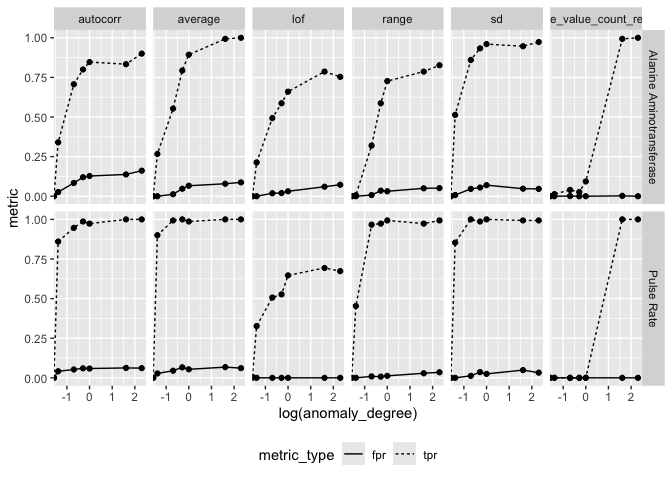
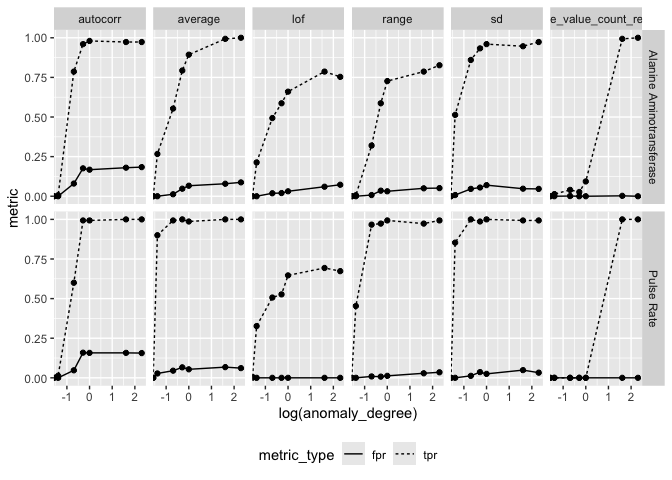
autocorr2

diff --git a/README.md b/README.md
@@ -69,7 +69,7 @@ ctas <- ctasval(
   fun_anomaly = c(
     anomaly_average,
     anomaly_sd,
-    anomaly_autocorr,
+    anomaly_autocorr2,
     anomaly_lof,
     anomaly_range,
     anomaly_unique_value_count_relative
@@ -1535,58 +1535,58 @@ ctas$anomaly %>%
   knitr::kable()
 ```
 
-| iter | anomaly_degree | feats    | parameter_id             | site         | subject_id               | timepoint_rank |      result | score |
-|-----:|---------------:|:---------|:-------------------------|:-------------|:-------------------------|---------------:|------------:|------:|
-|    1 |             10 | autocorr | Alanine Aminotransferase | sample_site1 | sample_site1-01-703-1335 |              1 |  173.990697 |     1 |
-|    1 |             10 | autocorr | Alanine Aminotransferase | sample_site1 | sample_site1-01-703-1335 |              4 |  179.241848 |     1 |
-|    1 |             10 | autocorr | Alanine Aminotransferase | sample_site1 | sample_site1-01-703-1335 |              5 |   50.489801 |     1 |
-|    1 |             10 | autocorr | Alanine Aminotransferase | sample_site1 | sample_site1-01-703-1335 |              7 | -119.697451 |     1 |
-|    1 |             10 | autocorr | Alanine Aminotransferase | sample_site1 | sample_site1-01-710-1235 |              1 | -154.205697 |     1 |
-|    1 |             10 | autocorr | Alanine Aminotransferase | sample_site1 | sample_site1-01-710-1235 |              4 |  -23.469424 |     1 |
-|    1 |             10 | autocorr | Alanine Aminotransferase | sample_site1 | sample_site1-01-710-1235 |              5 |  134.668204 |     1 |
-|    1 |             10 | autocorr | Alanine Aminotransferase | sample_site1 | sample_site1-01-710-1235 |              7 |  194.702833 |     1 |
-|    1 |             10 | autocorr | Alanine Aminotransferase | sample_site1 | sample_site1-01-710-1235 |              8 |   92.438901 |     1 |
-|    1 |             10 | autocorr | Alanine Aminotransferase | sample_site1 | sample_site1-01-710-1235 |              9 |  -81.263813 |     1 |
-|    1 |             10 | autocorr | Alanine Aminotransferase | sample_site1 | sample_site1-01-710-1235 |             10 | -166.623231 |     1 |
-|    1 |             10 | autocorr | Alanine Aminotransferase | sample_site1 | sample_site1-01-710-1235 |             11 |  -81.918483 |     1 |
-|    1 |             10 | autocorr | Alanine Aminotransferase | sample_site1 | sample_site1-01-710-1235 |             12 |   87.892671 |     1 |
-|    1 |             10 | autocorr | Alanine Aminotransferase | sample_site1 | sample_site1-01-710-1235 |             13 |  191.928454 |     1 |
-|    1 |             10 | autocorr | Alanine Aminotransferase | sample_site1 | sample_site1-01-715-1085 |              1 |  129.458241 |     1 |
-|    1 |             10 | autocorr | Alanine Aminotransferase | sample_site1 | sample_site1-01-715-1085 |              4 |  -37.002537 |     1 |
-|    1 |             10 | autocorr | Alanine Aminotransferase | sample_site1 | sample_site1-01-715-1085 |              5 | -159.652422 |     1 |
-|    1 |             10 | autocorr | Alanine Aminotransferase | sample_site1 | sample_site1-01-715-1085 |              7 | -119.647071 |     1 |
-|    1 |             10 | autocorr | Alanine Aminotransferase | sample_site1 | sample_site1-01-715-1085 |              8 |   43.071571 |     1 |
-|    1 |             10 | autocorr | Alanine Aminotransferase | sample_site1 | sample_site1-01-715-1085 |              9 |  179.900736 |     1 |
-|    1 |             10 | autocorr | Alanine Aminotransferase | sample_site1 | sample_site1-01-715-1085 |             10 |  168.120925 |     1 |
-|    1 |             10 | autocorr | Alanine Aminotransferase | sample_site1 | sample_site1-01-715-1085 |             11 |   14.401232 |     1 |
-|    1 |             10 | autocorr | Alanine Aminotransferase | sample_site1 | sample_site1-01-715-1085 |             12 | -133.848560 |     1 |
-|    1 |             10 | autocorr | Alanine Aminotransferase | sample_site1 | sample_site1-01-715-1085 |             13 | -148.570092 |     1 |
-|    1 |             10 | autocorr | Alanine Aminotransferase | sample_site1 | sample_site1-01-716-1189 |              1 |   -5.906035 |     1 |
-|    1 |             10 | autocorr | Alanine Aminotransferase | sample_site1 | sample_site1-01-716-1189 |              4 |  165.737120 |     1 |
-|    1 |             10 | autocorr | Alanine Aminotransferase | sample_site1 | sample_site1-01-716-1189 |              5 |  191.745402 |     1 |
-|    1 |             10 | autocorr | Alanine Aminotransferase | sample_site1 | sample_site1-01-716-1189 |              7 |   81.932358 |     1 |
-|    1 |             10 | autocorr | Alanine Aminotransferase | sample_site1 | sample_site1-01-716-1189 |              8 |  -91.868870 |     1 |
-|    1 |             10 | autocorr | Alanine Aminotransferase | sample_site1 | sample_site1-01-716-1189 |              9 | -160.463212 |     1 |
-|    1 |             10 | autocorr | Alanine Aminotransferase | sample_site1 | sample_site1-01-716-1189 |             10 |  -58.979300 |     1 |
-|    1 |             10 | autocorr | Alanine Aminotransferase | sample_site1 | sample_site1-01-716-1189 |             11 |  118.601444 |     1 |
-|    1 |             10 | autocorr | Alanine Aminotransferase | sample_site2 | sample_site2-01-701-1192 |              1 |  140.816445 |     1 |
-|    1 |             10 | autocorr | Alanine Aminotransferase | sample_site2 | sample_site2-01-701-1192 |              4 |  148.796621 |     1 |
-|    1 |             10 | autocorr | Alanine Aminotransferase | sample_site2 | sample_site2-01-701-1192 |              5 |   34.764801 |     1 |
-|    1 |             10 | autocorr | Alanine Aminotransferase | sample_site2 | sample_site2-01-701-1192 |              7 |  -99.358081 |     1 |
-|    1 |             10 | autocorr | Alanine Aminotransferase | sample_site2 | sample_site2-01-701-1192 |              8 | -122.098858 |     1 |
-|    1 |             10 | autocorr | Alanine Aminotransferase | sample_site2 | sample_site2-01-701-1192 |              9 |  -27.113995 |     1 |
-|    1 |             10 | autocorr | Alanine Aminotransferase | sample_site2 | sample_site2-01-701-1192 |             10 |  109.670885 |     1 |
-|    1 |             10 | autocorr | Alanine Aminotransferase | sample_site2 | sample_site2-01-701-1192 |             11 |  160.576999 |     1 |
-|    1 |             10 | autocorr | Alanine Aminotransferase | sample_site2 | sample_site2-01-701-1192 |             12 |   79.640291 |     1 |
-|    1 |             10 | autocorr | Alanine Aminotransferase | sample_site2 | sample_site2-01-701-1192 |             13 |  -64.048821 |     1 |
-|    1 |             10 | autocorr | Alanine Aminotransferase | sample_site2 | sample_site2-01-708-1171 |              1 | -134.141416 |     1 |
-|    1 |             10 | autocorr | Alanine Aminotransferase | sample_site2 | sample_site2-01-708-1171 |              4 |  -64.952872 |     1 |
-|    1 |             10 | autocorr | Alanine Aminotransferase | sample_site2 | sample_site2-01-708-1171 |              5 |   73.824578 |     1 |
-|    1 |             10 | autocorr | Alanine Aminotransferase | sample_site2 | sample_site2-01-708-1171 |              7 |  158.760797 |     1 |
-|    1 |             10 | autocorr | Alanine Aminotransferase | sample_site2 | sample_site2-01-708-1171 |              8 |  110.685211 |     1 |
-|    1 |             10 | autocorr | Alanine Aminotransferase | sample_site2 | sample_site2-01-708-1171 |              9 |  -30.362917 |     1 |
-|    1 |             10 | autocorr | Alanine Aminotransferase | sample_site2 | sample_site2-01-708-1171 |             10 | -124.462774 |     1 |
-|    1 |             10 | autocorr | Alanine Aminotransferase | sample_site2 | sample_site2-01-708-1171 |             11 |  -92.502409 |     1 |
+| iter | anomaly_degree | feats | parameter_id | site | subject_id | timepoint_rank | result | score |
+|---:|---:|:---|:---|:---|:---|---:|---:|---:|
+| 1 | 10 | autocorr | Alanine Aminotransferase | sample_site1 | sample_site1-01-703-1335 | 1 | 173.990697 | 1 |
+| 1 | 10 | autocorr | Alanine Aminotransferase | sample_site1 | sample_site1-01-703-1335 | 4 | 179.241848 | 1 |
+| 1 | 10 | autocorr | Alanine Aminotransferase | sample_site1 | sample_site1-01-703-1335 | 5 | 50.489801 | 1 |
+| 1 | 10 | autocorr | Alanine Aminotransferase | sample_site1 | sample_site1-01-703-1335 | 7 | -119.697451 | 1 |
+| 1 | 10 | autocorr | Alanine Aminotransferase | sample_site1 | sample_site1-01-710-1235 | 1 | -154.205697 | 1 |
+| 1 | 10 | autocorr | Alanine Aminotransferase | sample_site1 | sample_site1-01-710-1235 | 4 | -23.469424 | 1 |
+| 1 | 10 | autocorr | Alanine Aminotransferase | sample_site1 | sample_site1-01-710-1235 | 5 | 134.668204 | 1 |
+| 1 | 10 | autocorr | Alanine Aminotransferase | sample_site1 | sample_site1-01-710-1235 | 7 | 194.702833 | 1 |
+| 1 | 10 | autocorr | Alanine Aminotransferase | sample_site1 | sample_site1-01-710-1235 | 8 | 92.438901 | 1 |
+| 1 | 10 | autocorr | Alanine Aminotransferase | sample_site1 | sample_site1-01-710-1235 | 9 | -81.263813 | 1 |
+| 1 | 10 | autocorr | Alanine Aminotransferase | sample_site1 | sample_site1-01-710-1235 | 10 | -166.623231 | 1 |
+| 1 | 10 | autocorr | Alanine Aminotransferase | sample_site1 | sample_site1-01-710-1235 | 11 | -81.918483 | 1 |
+| 1 | 10 | autocorr | Alanine Aminotransferase | sample_site1 | sample_site1-01-710-1235 | 12 | 87.892671 | 1 |
+| 1 | 10 | autocorr | Alanine Aminotransferase | sample_site1 | sample_site1-01-710-1235 | 13 | 191.928454 | 1 |
+| 1 | 10 | autocorr | Alanine Aminotransferase | sample_site1 | sample_site1-01-715-1085 | 1 | 129.458241 | 1 |
+| 1 | 10 | autocorr | Alanine Aminotransferase | sample_site1 | sample_site1-01-715-1085 | 4 | -37.002537 | 1 |
+| 1 | 10 | autocorr | Alanine Aminotransferase | sample_site1 | sample_site1-01-715-1085 | 5 | -159.652422 | 1 |
+| 1 | 10 | autocorr | Alanine Aminotransferase | sample_site1 | sample_site1-01-715-1085 | 7 | -119.647071 | 1 |
+| 1 | 10 | autocorr | Alanine Aminotransferase | sample_site1 | sample_site1-01-715-1085 | 8 | 43.071571 | 1 |
+| 1 | 10 | autocorr | Alanine Aminotransferase | sample_site1 | sample_site1-01-715-1085 | 9 | 179.900736 | 1 |
+| 1 | 10 | autocorr | Alanine Aminotransferase | sample_site1 | sample_site1-01-715-1085 | 10 | 168.120925 | 1 |
+| 1 | 10 | autocorr | Alanine Aminotransferase | sample_site1 | sample_site1-01-715-1085 | 11 | 14.401232 | 1 |
+| 1 | 10 | autocorr | Alanine Aminotransferase | sample_site1 | sample_site1-01-715-1085 | 12 | -133.848560 | 1 |
+| 1 | 10 | autocorr | Alanine Aminotransferase | sample_site1 | sample_site1-01-715-1085 | 13 | -148.570092 | 1 |
+| 1 | 10 | autocorr | Alanine Aminotransferase | sample_site1 | sample_site1-01-716-1189 | 1 | -5.906035 | 1 |
+| 1 | 10 | autocorr | Alanine Aminotransferase | sample_site1 | sample_site1-01-716-1189 | 4 | 165.737120 | 1 |
+| 1 | 10 | autocorr | Alanine Aminotransferase | sample_site1 | sample_site1-01-716-1189 | 5 | 191.745402 | 1 |
+| 1 | 10 | autocorr | Alanine Aminotransferase | sample_site1 | sample_site1-01-716-1189 | 7 | 81.932358 | 1 |
+| 1 | 10 | autocorr | Alanine Aminotransferase | sample_site1 | sample_site1-01-716-1189 | 8 | -91.868870 | 1 |
+| 1 | 10 | autocorr | Alanine Aminotransferase | sample_site1 | sample_site1-01-716-1189 | 9 | -160.463212 | 1 |
+| 1 | 10 | autocorr | Alanine Aminotransferase | sample_site1 | sample_site1-01-716-1189 | 10 | -58.979300 | 1 |
+| 1 | 10 | autocorr | Alanine Aminotransferase | sample_site1 | sample_site1-01-716-1189 | 11 | 118.601444 | 1 |
+| 1 | 10 | autocorr | Alanine Aminotransferase | sample_site2 | sample_site2-01-701-1192 | 1 | 140.816445 | 1 |
+| 1 | 10 | autocorr | Alanine Aminotransferase | sample_site2 | sample_site2-01-701-1192 | 4 | 148.796621 | 1 |
+| 1 | 10 | autocorr | Alanine Aminotransferase | sample_site2 | sample_site2-01-701-1192 | 5 | 34.764801 | 1 |
+| 1 | 10 | autocorr | Alanine Aminotransferase | sample_site2 | sample_site2-01-701-1192 | 7 | -99.358081 | 1 |
+| 1 | 10 | autocorr | Alanine Aminotransferase | sample_site2 | sample_site2-01-701-1192 | 8 | -122.098858 | 1 |
+| 1 | 10 | autocorr | Alanine Aminotransferase | sample_site2 | sample_site2-01-701-1192 | 9 | -27.113995 | 1 |
+| 1 | 10 | autocorr | Alanine Aminotransferase | sample_site2 | sample_site2-01-701-1192 | 10 | 109.670885 | 1 |
+| 1 | 10 | autocorr | Alanine Aminotransferase | sample_site2 | sample_site2-01-701-1192 | 11 | 160.576999 | 1 |
+| 1 | 10 | autocorr | Alanine Aminotransferase | sample_site2 | sample_site2-01-701-1192 | 12 | 79.640291 | 1 |
+| 1 | 10 | autocorr | Alanine Aminotransferase | sample_site2 | sample_site2-01-701-1192 | 13 | -64.048821 | 1 |
+| 1 | 10 | autocorr | Alanine Aminotransferase | sample_site2 | sample_site2-01-708-1171 | 1 | -134.141416 | 1 |
+| 1 | 10 | autocorr | Alanine Aminotransferase | sample_site2 | sample_site2-01-708-1171 | 4 | -64.952872 | 1 |
+| 1 | 10 | autocorr | Alanine Aminotransferase | sample_site2 | sample_site2-01-708-1171 | 5 | 73.824578 | 1 |
+| 1 | 10 | autocorr | Alanine Aminotransferase | sample_site2 | sample_site2-01-708-1171 | 7 | 158.760797 | 1 |
+| 1 | 10 | autocorr | Alanine Aminotransferase | sample_site2 | sample_site2-01-708-1171 | 8 | 110.685211 | 1 |
+| 1 | 10 | autocorr | Alanine Aminotransferase | sample_site2 | sample_site2-01-708-1171 | 9 | -30.362917 | 1 |
+| 1 | 10 | autocorr | Alanine Aminotransferase | sample_site2 | sample_site2-01-708-1171 | 10 | -124.462774 | 1 |
+| 1 | 10 | autocorr | Alanine Aminotransferase | sample_site2 | sample_site2-01-708-1171 | 11 | -92.502409 | 1 |
 
 ## Publication
 
